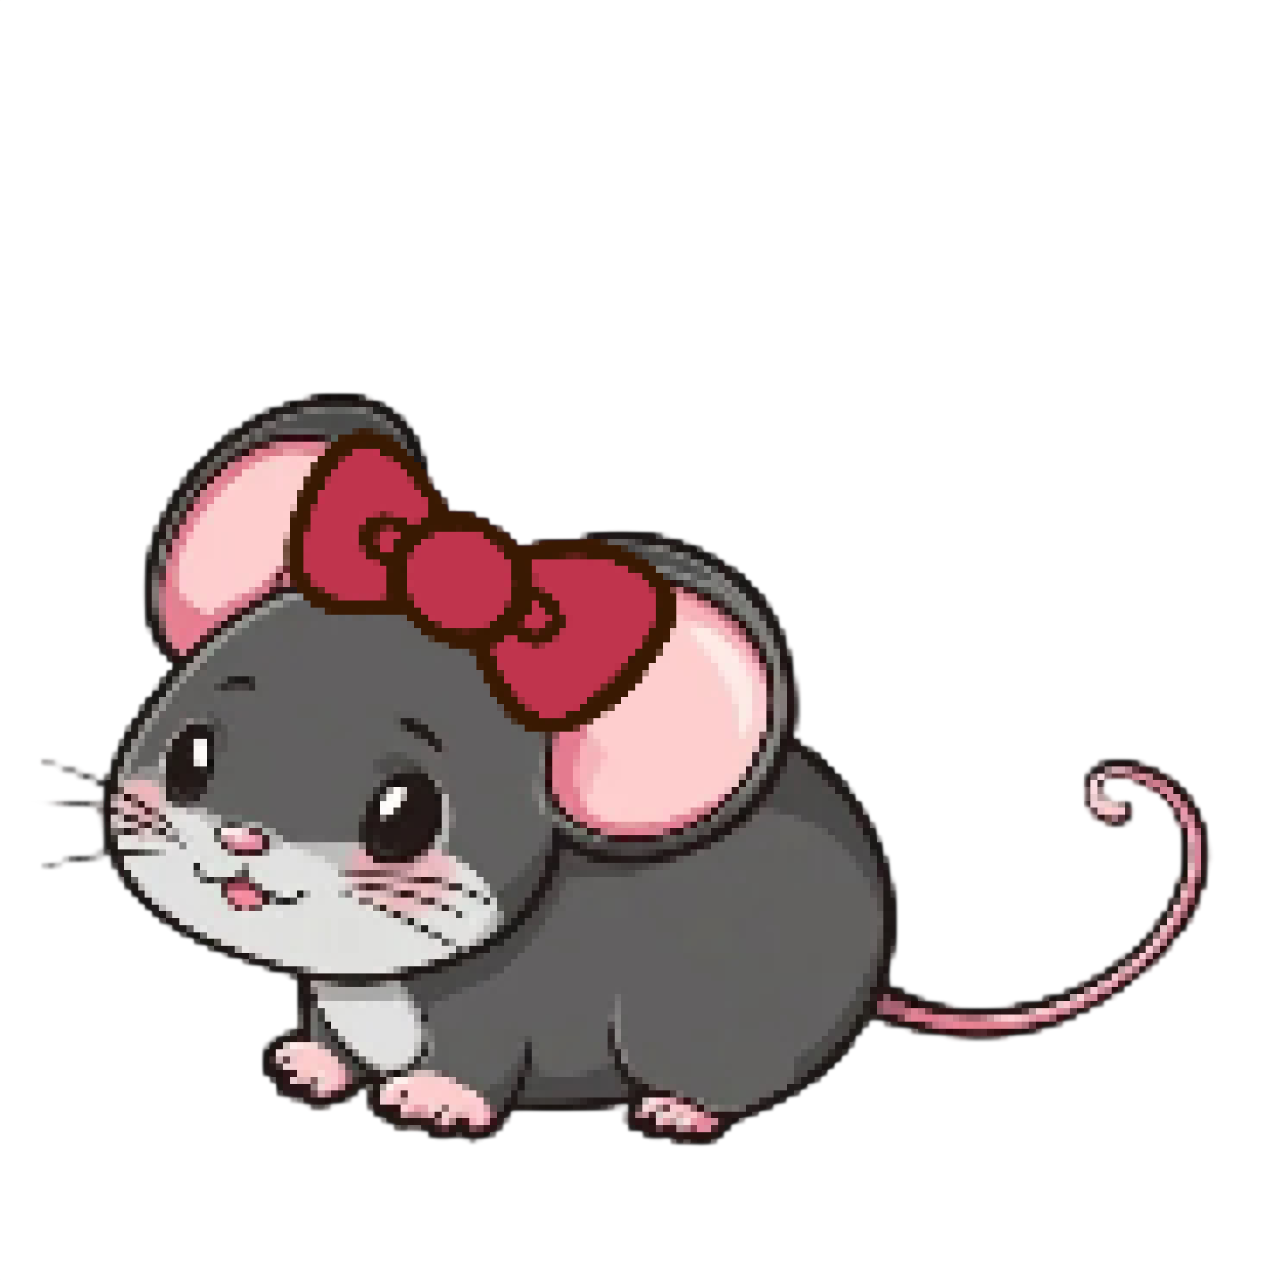
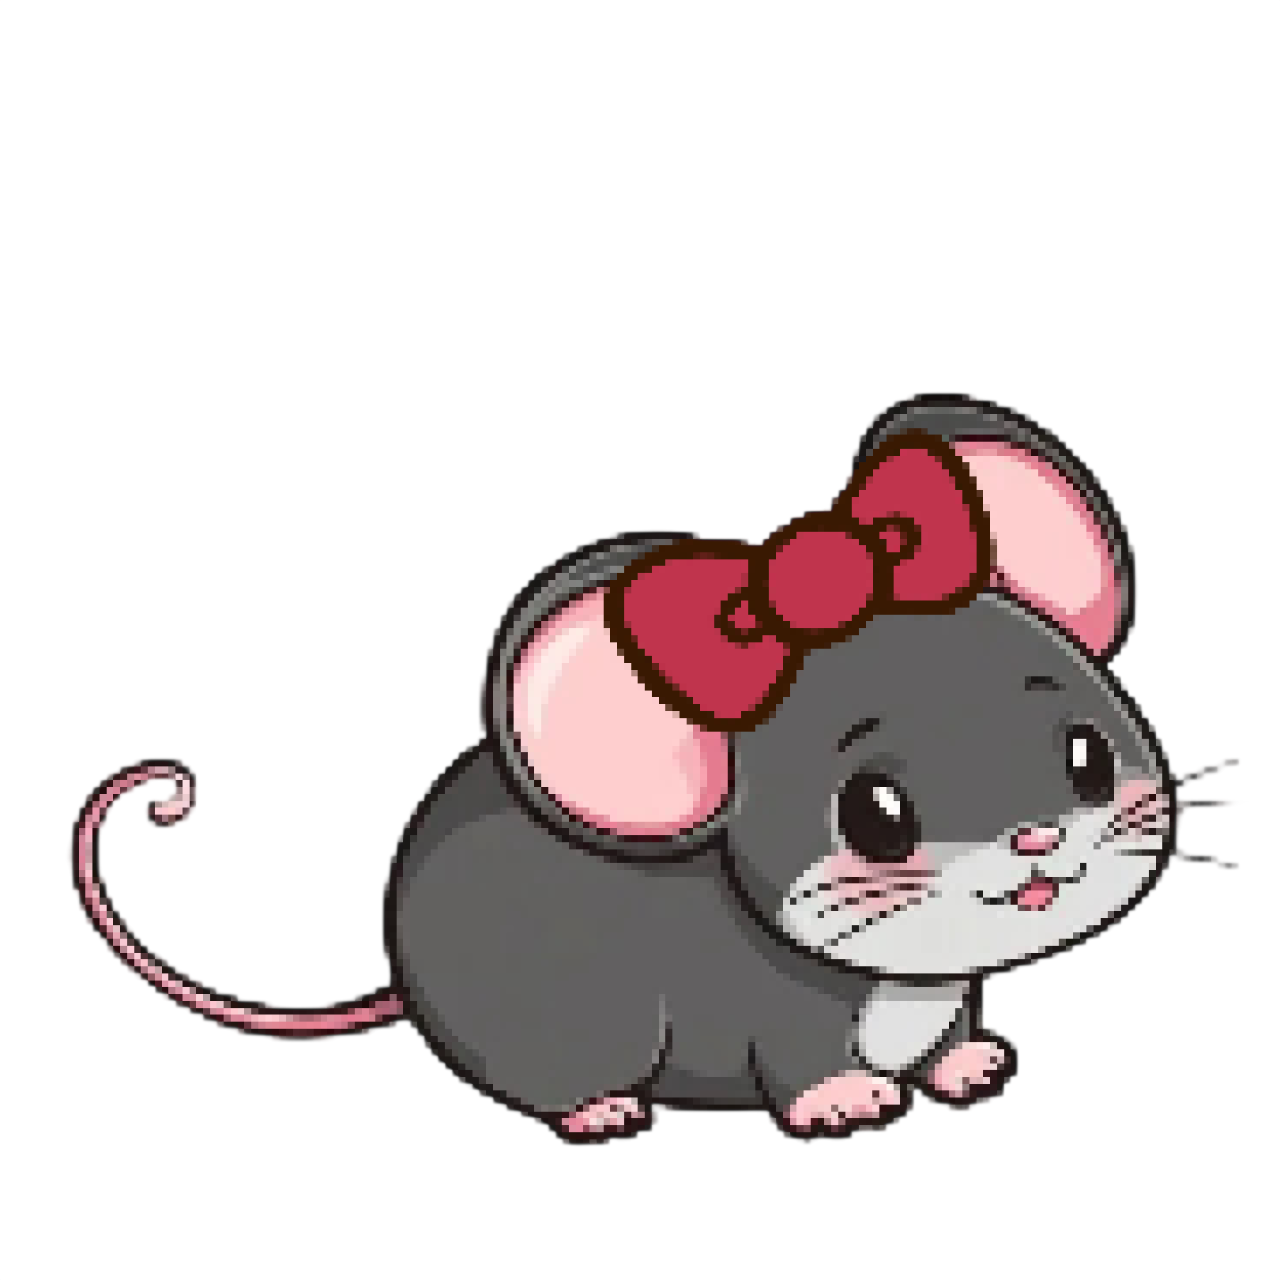
.

diff --git a/lvl1.py b/lvl1.py
@@ -1,9 +1,10 @@
 import arcade
+import random
 
-SCREEN_WIDTH = 960
-SCREEN_HEIGHT = 640
-MOVE_SPEED = 5
-SCREEN_TITLE = "Real Walk"
+SCREEN_WIDTH = 1600
+SCREEN_HEIGHT = 820
+SCREEN_TITLE = "Уровень 1 — Мышата"
+PLAYER_SPEED = 5
 
 
 class MyGame(arcade.Window):
@@ -12,72 +13,98 @@ class MyGame(arcade.Window):
         arcade.set_background_color(arcade.color.BLACK)
 
     def setup(self):
-        self.player = arcade.Sprite(
-            ":resources:/images/animated_characters/female_adventurer/femaleAdventurer_idle.png",
-            scale=0.5
-        )
+        try:
+            self.player = arcade.Sprite("data/mouse.png", scale=0.1)
+            self.player.flip_horizontal = True
+        except FileNotFoundError:
+            print("Файл data/mouse.png не найден. Используем замену.")
+            self.player = arcade.Sprite(":resources:images/animated_characters/female_person/femalePerson_idle.png", scale=0.3)
+            self.player.texture = self.player.texture.flip_left_right()
+
         self.player.center_x = 100
         self.player.center_y = 100
+        self.player_spritelist = arcade.SpriteList()
+        self.player_spritelist.append(self.player)
 
-        self.player_list = arcade.SpriteList()
-        self.player_list.append(self.player)
+        self.cheese_list = arcade.SpriteList()
+        self.trap_list = arcade.SpriteList()
 
-        self.tile_map = arcade.load_tilemap(":resources:/tiled_maps/level_1.json", scaling=0.5)
-        self.scene = arcade.Scene.from_tilemap(self.tile_map)
-        self.coin_list = self.scene['Coins']
+        for _ in range(10):
+            cheese = arcade.Sprite("data/cheese.png", scale=0.05)
+            cheese.center_x = random.randint(50, SCREEN_WIDTH - 50)
+            cheese.center_y = random.randint(50, SCREEN_HEIGHT - 50)
+            self.cheese_list.append(cheese)
+
+        for _ in range(5):
+            trap = arcade.Sprite("data/mousetrap.png", scale=0.15)
+            trap.center_x = random.randint(50, SCREEN_WIDTH - 50)
+            trap.center_y = random.randint(50, SCREEN_HEIGHT - 50)
+            self.trap_list.append(trap)
+
         self.score = 0
-
-        self.up = self.down = self.left = self.right = False
-
+        self.pause = False
 
     def on_draw(self):
         self.clear()
-        self.scene.draw()
-        self.player_list.draw()
-        arcade.draw_text(f'Score: {self.score}', 10, self.height - 30,
-                        arcade.color.WHITE, 24)
+        if not self.pause:
+            self.player_spritelist.draw()
+            self.cheese_list.draw()
+            self.trap_list.draw()
+        else:
+            self.game_over_text.draw()
+        arcade.draw_text(f"Score: {self.score}", 10, SCREEN_HEIGHT - 30, arcade.color.WHITE, 24)
+
     def on_update(self, delta_time):
-        start_x = self.player.center_x
-        start_y = self.player.center_y
+        if self.pause:
+            return
+        if self.score == 10:
+            arcade.close_window()
 
-        if self.up:
-            self.player.center_y += MOVE_SPEED
-        if self.down:
-            self.player.center_y -= MOVE_SPEED
-        if self.left:
-            self.player.center_x -= MOVE_SPEED
-        if self.right:
-            self.player.center_x += MOVE_SPEED
+        self.player.update()
 
-        walls = self.scene['Platforms']
-        if arcade.check_for_collision_with_list(self.player, walls):
-            self.player.center_x = start_x
-            self.player.center_y = start_y
-
-        coins_hit = arcade.check_for_collision_with_list(self.player, self.coin_list)
-        for coin in coins_hit:
-            coin.remove_from_sprite_lists()
+        collected = arcade.check_for_collision_with_list(self.player, self.cheese_list)
+        for item in collected:
+            item.remove_from_sprite_lists()
             self.score += 1
 
+        if arcade.check_for_collision_with_list(self.player, self.trap_list):
+            self.game_over()
+
     def on_key_press(self, key, modifiers):
-        if key in (arcade.key.LEFT, arcade.key.A):
-            self.left = True
-        elif key in (arcade.key.RIGHT, arcade.key.D):
-            self.right = True
-        elif key in (arcade.key.UP, arcade.key.W):
-            self.up = True
-        elif key in (arcade.key.DOWN, arcade.key.S):
-            self.down = True
+        if self.pause:
+            if key == arcade.key.R:
+                self.setup()
+            elif key == arcade.key.Q or key == arcade.key.ESCAPE:
+                arcade.close_window()
+            return
+
+        speed = PLAYER_SPEED
+        if key == arcade.key.UP:
+            self.player.change_y = speed
+        elif key == arcade.key.DOWN:
+            self.player.change_y = -speed
+        elif key == arcade.key.LEFT:
+            self.player.change_x = -speed
+        elif key == arcade.key.RIGHT:
+            self.player.change_x = speed
 
     def on_key_release(self, key, modifiers):
-        if key in (arcade.key.LEFT, arcade.key.A):
-            self.left = False
-        elif key in (arcade.key.RIGHT, arcade.key.D):
-            self.right = False
-        elif key in (arcade.key.UP, arcade.key.W):
-            self.up = False
-        elif key in (arcade.key.DOWN, arcade.key.S):
-            self.down = False
+        if key in (arcade.key.LEFT, arcade.key.RIGHT):
+            self.player.change_x = 0
+        if key in (arcade.key.UP, arcade.key.DOWN):
+            self.player.change_y = 0
+
+    def game_over(self):
+        self.pause = True
+        self.game_over_text = arcade.Text(
+            "Вы проиграли!\nНажмите 'R' для перезапуска\nили 'Esc' для выхода",
+            SCREEN_WIDTH // 2,
+            SCREEN_HEIGHT // 2,
+            arcade.color.RED,
+            24,
+            anchor_x="center",
+            anchor_y="center"
+        )
 
 
 def main():

diff --git a/main.py b/main.py
@@ -1,4 +1,6 @@
 import arcade
+import subprocess
+import sys
 
 SCREEN_WIDTH = 1600
 SCREEN_HEIGHT = 820
@@ -14,22 +16,27 @@ class MenuView(arcade.View):
     def __init__(self):
         super().__init__()
         self.current_state = MAIN_MENU
-        self.background_texture = arcade.load_texture("data/background.png")
+        try:
+            self.background_texture = arcade.load_texture("data/background.png")
+        except FileNotFoundError:
+            self.background_texture = None
+            print("Фон не найден. Используем чёрный фон.")
 
     def on_show_view(self):
-        pass
+        arcade.set_background_color(arcade.color.BLACK)
 
     def on_draw(self):
         self.clear()
 
-        arcade.draw_texture_rect(
-            self.background_texture,
-            arcade.rect.XYWH(SCREEN_WIDTH // 2, SCREEN_HEIGHT // 2, SCREEN_WIDTH, SCREEN_HEIGHT)
-        )
+        if self.background_texture:
+            arcade.draw_texture_rect(
+                self.background_texture,
+                arcade.rect.XYWH(SCREEN_WIDTH // 2, SCREEN_HEIGHT // 2, SCREEN_WIDTH, SCREEN_HEIGHT)
+            )
 
         if self.current_state == MAIN_MENU:
-            arcade.draw_text("Мышата", SCREEN_WIDTH // 2, SCREEN_HEIGHT - 150,  # было -100 → стало -150
-                            arcade.color.BLACK, font_size=48, anchor_x="center", bold=True)
+            arcade.draw_text("Мышата", SCREEN_WIDTH // 2, SCREEN_HEIGHT - 150,
+                            arcade.color.WHITE, font_size=48, anchor_x="center", bold=True)
             self.draw_menu_item("К уровням", 0)
             self.draw_menu_item("Правила", 1)
             self.draw_menu_item("Управление", 2)
@@ -57,28 +64,34 @@ class MenuView(arcade.View):
 
         elif self.current_state == LEVELS:
             self.draw_header("Выбор уровня")
-            self.draw_multiline_text(
+            '''self.draw_multiline_text(
                 "Уровень 1 — доступен \n"
                 "Уровень 2 — заблокирован \n"
                 "Уровень 3 — заблокирован "
-            )
+            )'''
+            arcade.draw_text("Уровень 1", SCREEN_WIDTH // 2 - 200, SCREEN_HEIGHT // 2 + 30,
+                            arcade.color.GREEN, font_size=22, anchor_x="center")
+            arcade.draw_text("Уровень 2", SCREEN_WIDTH // 2, SCREEN_HEIGHT // 2 + 30,
+                            arcade.color.RED, font_size=22, anchor_x="center")
+            arcade.draw_text("Уровень 3", SCREEN_WIDTH // 2 + 200, SCREEN_HEIGHT // 2 + 30,
+                            arcade.color.RED, font_size=22, anchor_x="center")
             self.draw_back_button()
 
     def draw_header(self, text):
         arcade.draw_text(text, SCREEN_WIDTH // 2, SCREEN_HEIGHT - 120,
-                        arcade.color.BLACK, font_size=36, anchor_x="center", bold=True)
+                        arcade.color.WHITE, font_size=36, anchor_x="center", bold=True)
 
     def draw_menu_item(self, text, index):
         y = SCREEN_HEIGHT - 350 - index * 50
         arcade.draw_text(text, SCREEN_WIDTH // 2, y,
-                        arcade.color.DARK_GRAY, font_size=24, anchor_x="center")
+                        arcade.color.LIGHT_GRAY, font_size=24, anchor_x="center")
 
     def draw_multiline_text(self, text):
         arcade.draw_text(
             text,
             x=SCREEN_WIDTH // 2,
             y=SCREEN_HEIGHT // 2 + 100,
-            color=arcade.color.BLACK,
+            color=arcade.color.WHITE,
             font_size=18,
             anchor_x="center",
             width=600,
@@ -88,8 +101,16 @@ class MenuView(arcade.View):
 
     def draw_back_button(self):
         arcade.draw_text("Назад", 80, 50, arcade.color.BLUE, font_size=18)
+
     def on_mouse_press(self, x: float, y: float, button: int, modifiers: int):
-        if self.current_state == MAIN_MENU:
+        if self.current_state == LEVELS:
+            level1_y = SCREEN_HEIGHT // 2 + 30
+            if abs(x - SCREEN_WIDTH // 2 + 200) < 100 and abs(y - level1_y) < 20:
+                subprocess.Popen([sys.executable, "lvl1.py"])
+                return
+            if 20 <= x <= 140 and 40 <= y <= 80:
+                self.current_state = MAIN_MENU
+        elif self.current_state == MAIN_MENU:
             for i, _ in enumerate(["К уровням", "Правила", "Управление"]):
                 btn_y = SCREEN_HEIGHT - 340 - i * 50
                 if abs(x - SCREEN_WIDTH // 2) < 120 and abs(y - btn_y) < 20:
@@ -112,12 +133,12 @@ class MenuView(arcade.View):
 class GameWindow(arcade.Window):
     def __init__(self):
         super().__init__(SCREEN_WIDTH, SCREEN_HEIGHT, SCREEN_TITLE)
-        self.menu_view = MenuView()
-        self.show_view(self.menu_view)
 
 
 def main():
     window = GameWindow()
+    menu_view = MenuView()
+    window.show_view(menu_view)
     arcade.run()
 
 
